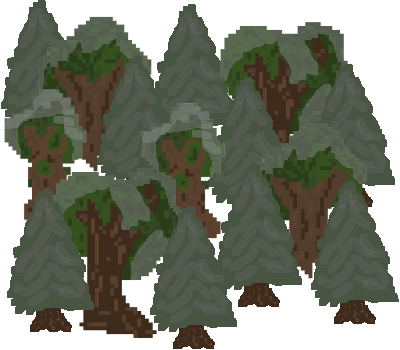
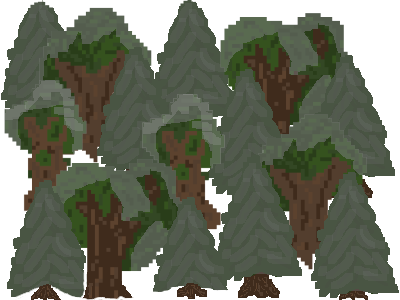
forest change not ended

diff --git a/object/functions.py b/object/functions.py
@@ -1,35 +1,42 @@
 import pygame
 import object.obstacles as obstacles
 
+main_map = pygame.image.load("../img/objects/map.png")
+player = pygame.image.load("../img/objects/player.png")
+
 
 def chart(screen, x, y):
-    map = pygame.image.load("../img/objects/map.png")
-    screen.blit(map, (0, 0 - y))
-    map_top = pygame.image.load("../img/objects/map_top.png")
-    screen.blit(map_top, (0, 1800 - y))
-    player = pygame.image.load("../img/objects/player.png")
+    screen.blit(main_map, (0, 0 - y))
+    screen.blit(main_map, (0, 1800 - y))
     screen.blit(player, (570 + x, 80))
 
 
-def move(screen, x, y, n, forest_long, f_var, kier):
+def move(screen, x, y, n, forest_long, forest_var, forest_start, forest_change, kier):
     chart(screen, x, y + n)
     if kier == 1:
         x -= n
     elif kier == 2:
         x += n
-    if y%150 == 0:
-        if forest_long == 0:
-            f_tab = obstacles.randomise_forest()
-            f_var = f_tab[0]
-            forest_long = f_tab[1]
-            print(f_var)
-            print(f_tab)
+    if y % 300 == 0:
+        forest_long = forest_long - 1
+    if forest_long == 0:
+        if forest_change == 1:
+            forest_tab = obstacles.randomise_forest()
+            forest_var[0] = forest_tab[0][1]
+            forest_var[1] = forest_tab[0][2]
+            forest_long = forest_tab[1]
+            forest_start = y + 600
+            forest_change = 1
         else:
-            forest_long = forest_long - 1
-    f_var = obstacles.forest(screen, y, f_var)
+            forest_tab = obstacles.randomise_forest()
+            forest_var[2] = forest_tab[0][1]
+            forest_var[3] = forest_tab[0][2]
+            forest_start = y + 1200
+            forest_change = 0
+    obstacles.forest(screen, y, forest_var, forest_start)
     if y + n >= 1800:
-        return [x, 0, n, forest_long, f_var, kier]
-    return [x, y + n, n, forest_long, f_var, kier]
+        return [x, 0, n, forest_long, forest_var, forest_start, kier]
+    return [x, y + n, n, forest_long, forest_var, forest_start, kier]
 
 
 def lost(game):

diff --git a/object/obstacles.py b/object/obstacles.py
@@ -1,18 +1,18 @@
 import pygame
 import random
 
+grove = pygame.image.load("../img/objects/forest.png")
 
-def forest(screen, y, f_tab):
-    grove = pygame.image.load("../img/objects/forest.png")
-    for i in range(3):
-        print(f_tab[i])
+
+def forest(screen, y, f_tab, f_start):
+    for i in range(4):
         if f_tab[i] != 0:
-            screen.blit(grove, (400*i, 1800-y))
-    return f_tab
+            screen.blit(grove, (i * 400, (f_start - y)))
+    return
 
 
 def randomise_forest():
-    side = random.randint(0,3)
+    side = random.randint(0, 3)
     if side == 0:
         long = random.randint(1, 5)
         return [0, long, 0], long
@@ -21,12 +21,11 @@ def randomise_forest():
         return [long, 0, 0], long
     elif side == 2:
         long = random.randint(1, 5)
-        return [0, 0, random.randint(1, 5)], long
+        return [0, 0, long], long
     else:
-        left_long = random.randint(1,5)
-        right_long = random.randint(1,5)
+        left_long = random.randint(1, 5)
+        right_long = random.randint(1, 5)
         if left_long >= right_long:
             return [left_long, 0, right_long], left_long
         else:
             return [left_long, 0, right_long], right_long
-

diff --git a/main/main.py b/main/main.py
@@ -7,13 +7,15 @@ pygame.init()
 
 game = False
 control = 0
-cords = [0, 0, 10, 0, 0]
+cords = [0, 0, 3, 1, [0, 0, 0, 0], 1, 0]
 
 pygame.display.set_caption('Shroom Collector')
 screen = pygame.display.set_mode((static.SCR_WITDH, static.SCR_HEIGT))
 
 run = True
 while run:
+    clock = pygame.time.Clock()
+    clock.tick(120)
     key = pygame.key.get_pressed()
     for event in pygame.event.get():
         if event.type == pygame.QUIT or key[pygame.K_ESCAPE]:
@@ -43,7 +45,7 @@ while run:
                     run = False
             menu.menu(screen, control)
     if game:
-        cords = play.move(screen, cords[0], cords[1], cords[2], cords[3], cords[4], control)
+        cords = play.move(screen, cords[0], cords[1], cords[2], cords[3], cords[4], cords[5], cords[6], control)
         if cords[2] == 0:
             game = play.lost(game)
     pygame.display.update()
